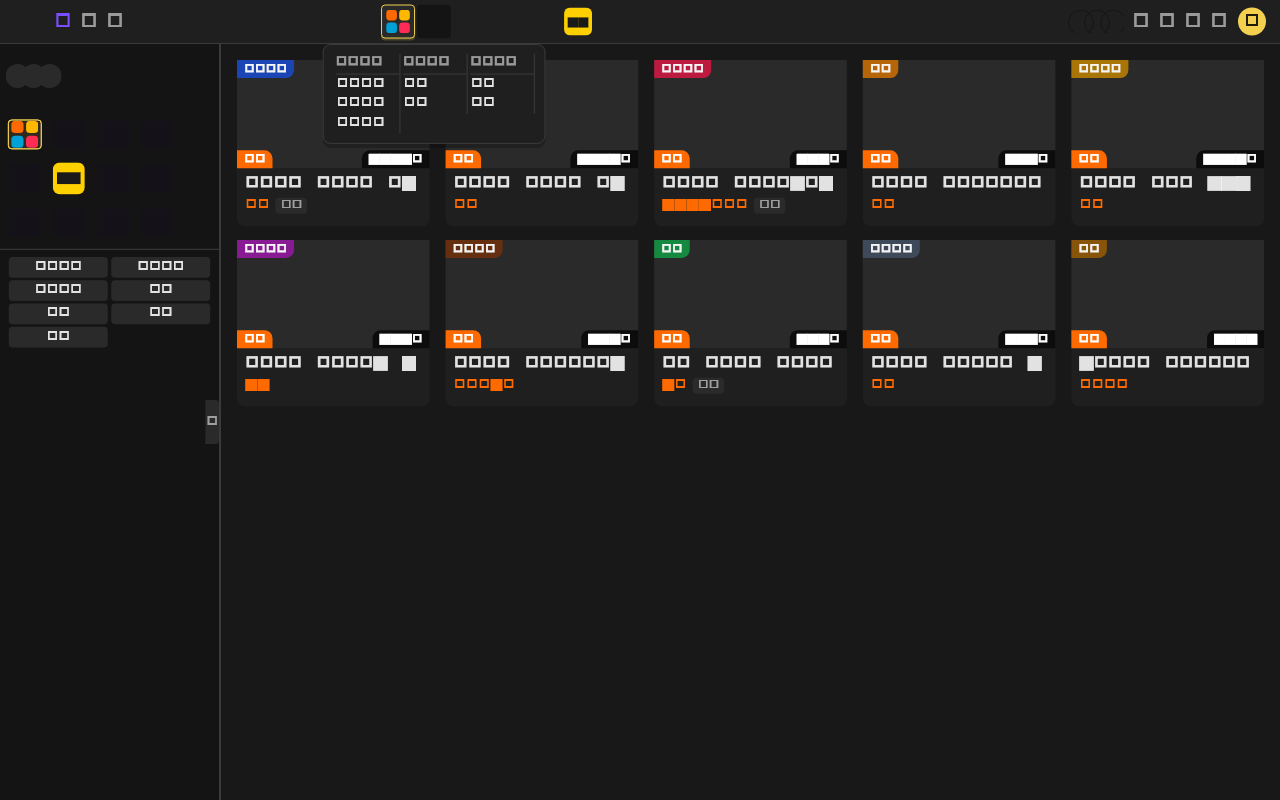
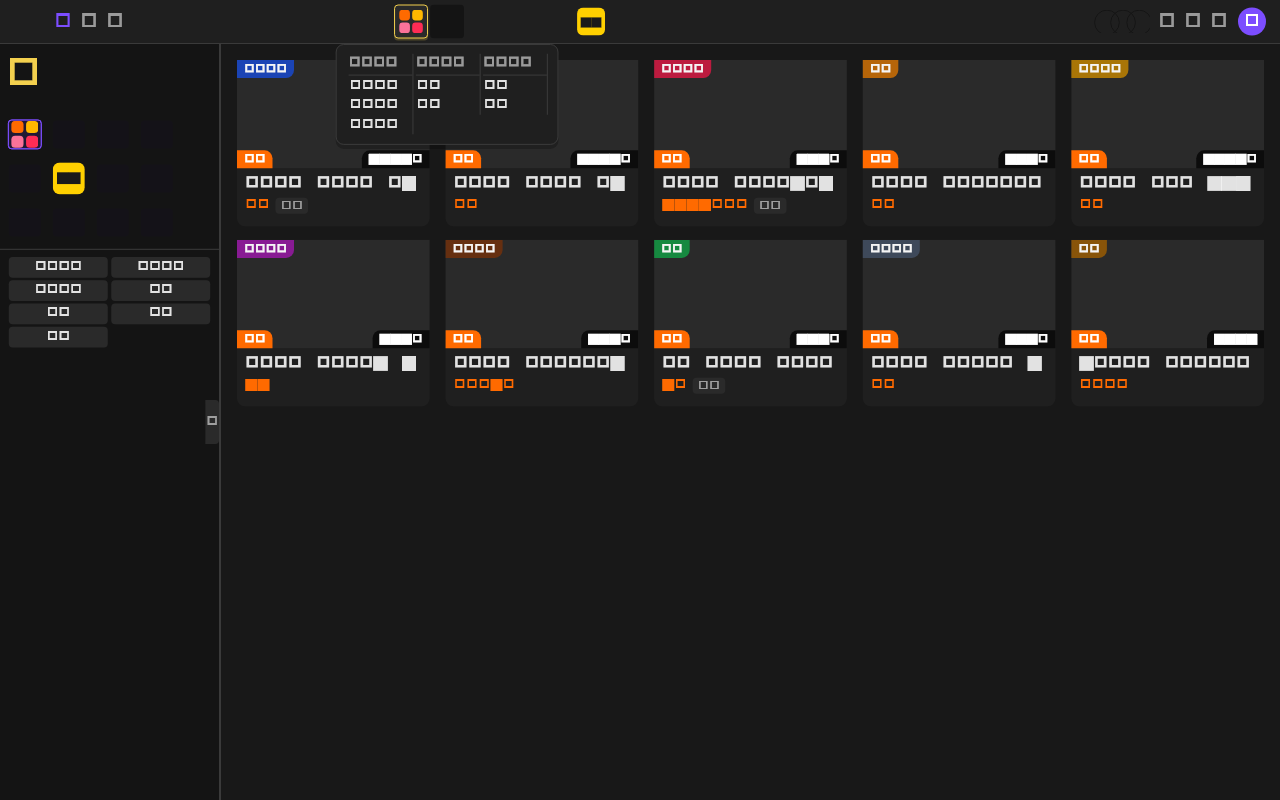
测试轨：修正 SOOP 统计列断言对齐设计 §3.2 并刷新 golden 基线
- play_follow_panel_test「第 3 列始终渲染」断言与设计 §3.2「未声明列
  不渲染」冲突：SOOP 仅声明 观看/订阅 两列（无 svip/钻粉语义），改为
  断言其只渲染已声明列、svip 不渲染 —— 全量 754 测试恢复全绿
- 刷新 5 张 golden（hover 分类浮层/我的关注/我的分类、播放侧栏关注/
  推荐封面网格）：差异经目视确认为房间卡轮播/状态徽章与能力驱动来源
  的有意改动，同步 tool/screenshots/zishu 参考副本

diff --git a/test/ui/workflows/play_follow_panel_test.dart b/test/ui/workflows/play_follow_panel_test.dart
@@ -616,7 +616,7 @@ void main() {
       expect(tester.takeException(), isNull);
     });
 
-    testWidgets('第 3 列始终渲染(平台无该列时也不隐藏)', (tester) async {
+    testWidgets('平台未声明的统计列不渲染(SOOP 无 svip 列)', (tester) async {
       SharedPreferencesAsyncPlatform.instance =
           InMemorySharedPreferencesAsync.withData(<String, Object>{
             'zishu.follow.list': jsonEncode([
@@ -628,10 +628,15 @@ void main() {
       await _pumpFrames(tester, 2);
 
       expect(find.byKey(const Key('play-side-header')), findsOneWidget);
+      // 设计 §3.2:SOOP 声明 roomStats = [audience(观看), vip(订阅)],
+      // 无 svip(钻粉)语义 —— 未声明的列不渲染,避免把不存在的能力
+      // 显示成空白或 0;取不到值的「已声明」列才显示「—」。
+      expect(find.byKey(const Key('play-side-stat-audience')), findsOneWidget);
+      expect(find.byKey(const Key('play-side-stat-vip')), findsOneWidget);
       expect(
         find.byKey(const Key('play-side-stat-svip')),
-        findsOneWidget,
-        reason: '口径与上两列一致:始终渲染,取不到值显示「—」',
+        findsNothing,
+        reason: 'SOOP 未声明 svip 列(无 diamondFans),按设计 §3.2 不渲染',
       );
       expect(tester.takeException(), isNull);
     });
